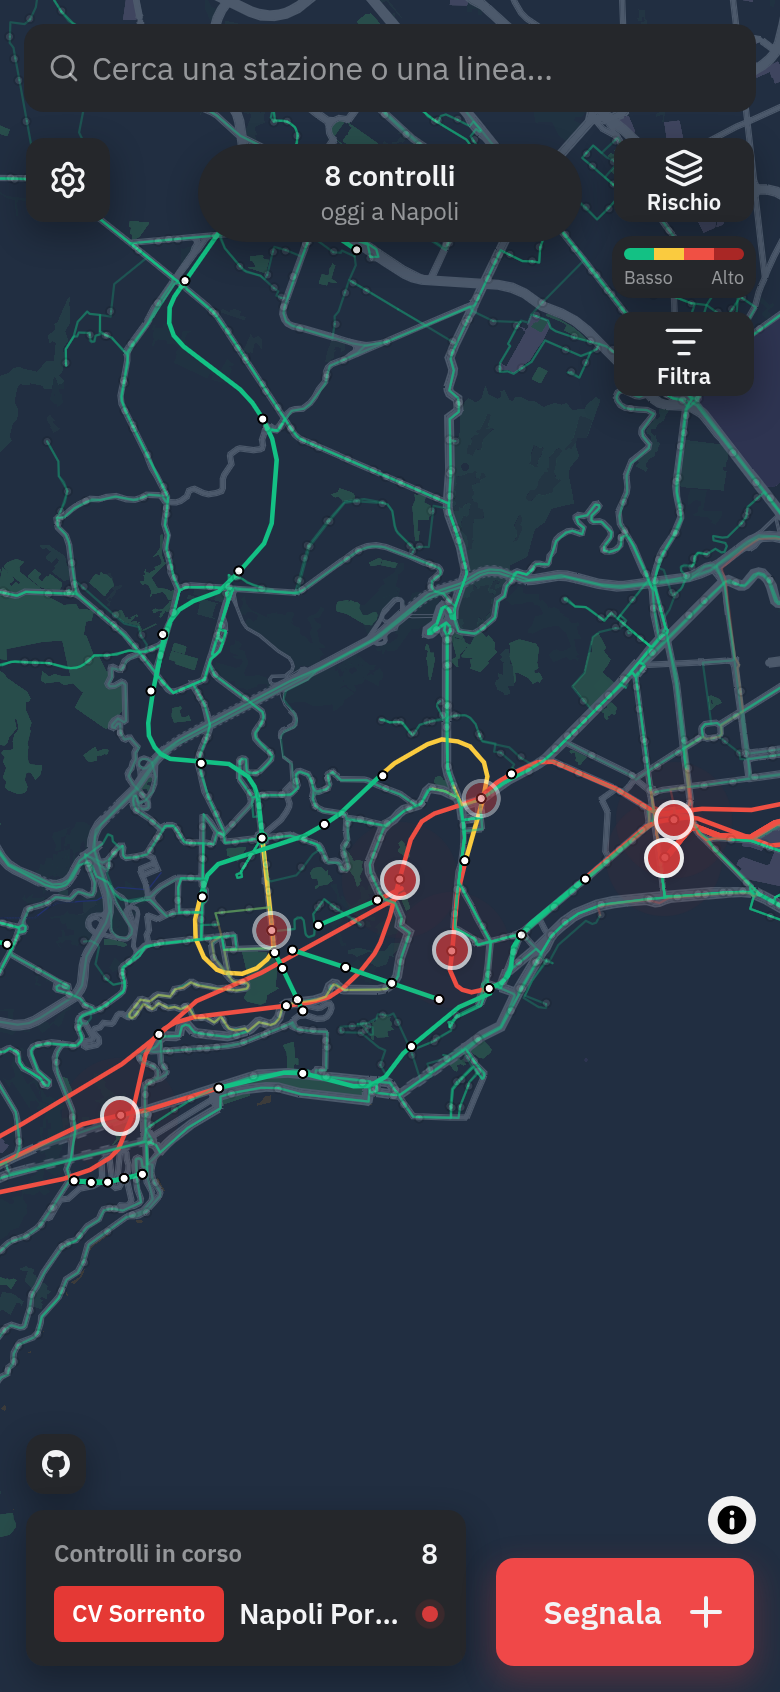
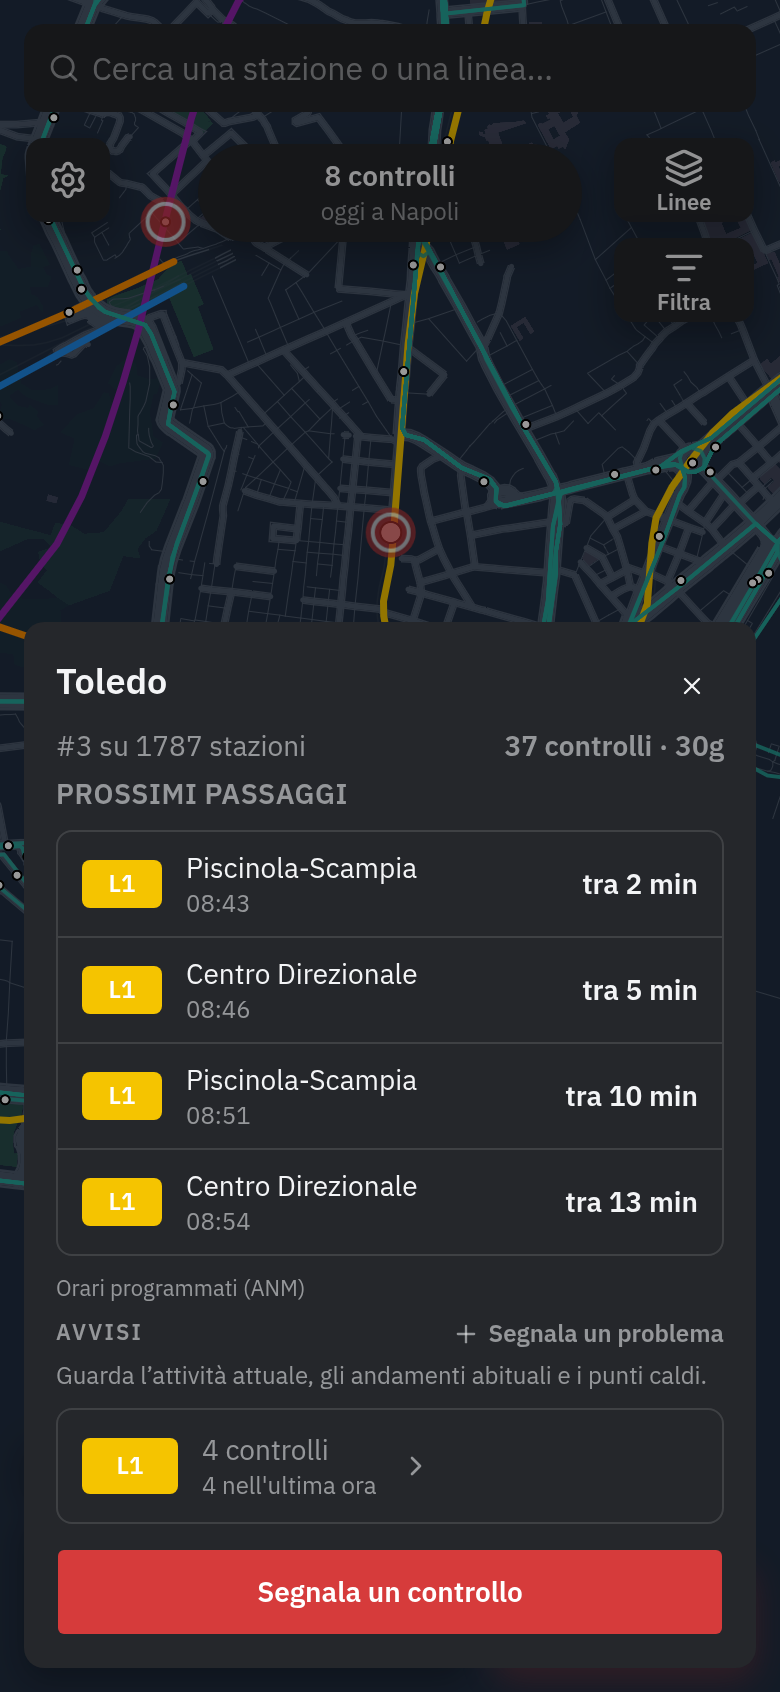
docs: show a station sheet as the second README screenshot

diff --git a/README.md b/README.md
@@ -40,11 +40,11 @@
 <table align="center">
   <tr>
     <td align="center"><img src="docs/readme_assets/screenshot1.png" alt="Mappa di Napoli con le linee e le segnalazioni attive" width="250" /></td>
-    <td align="center"><img src="docs/readme_assets/screenshot2.png" alt="Mappa del rischio per tratta a Napoli" width="250" /></td>
+    <td align="center"><img src="docs/readme_assets/screenshot2.png" alt="Scheda della stazione Toledo con i prossimi passaggi della Linea 1" width="250" /></td>
   </tr>
   <tr>
     <td align="center"><sub><strong>Linee e controlli in corso</strong></sub></td>
-    <td align="center"><sub><strong>Rischio tratta per tratta</strong></sub></td>
+    <td align="center"><sub><strong>Scheda stazione e prossimi passaggi</strong></sub></td>
   </tr>
 </table>
 
